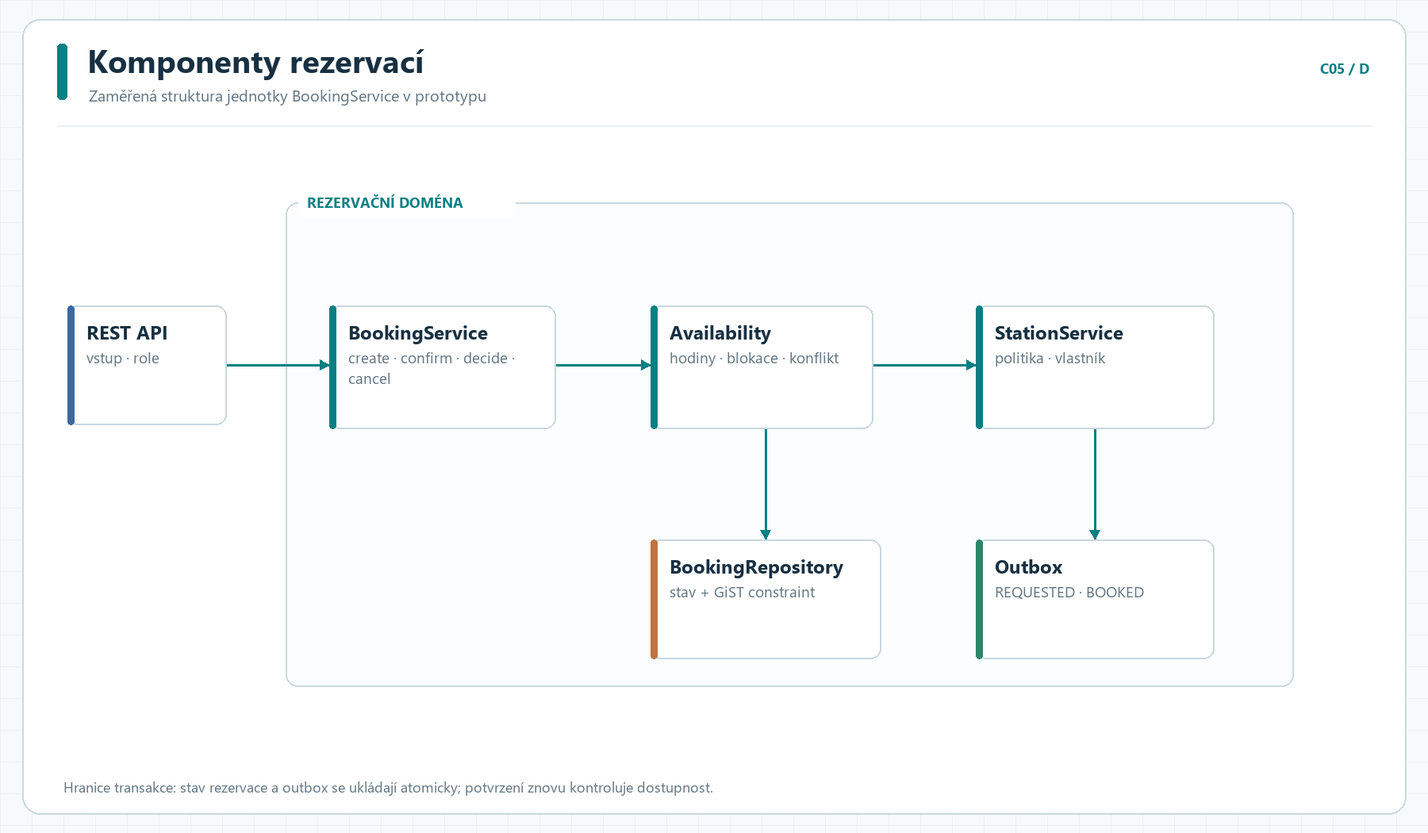
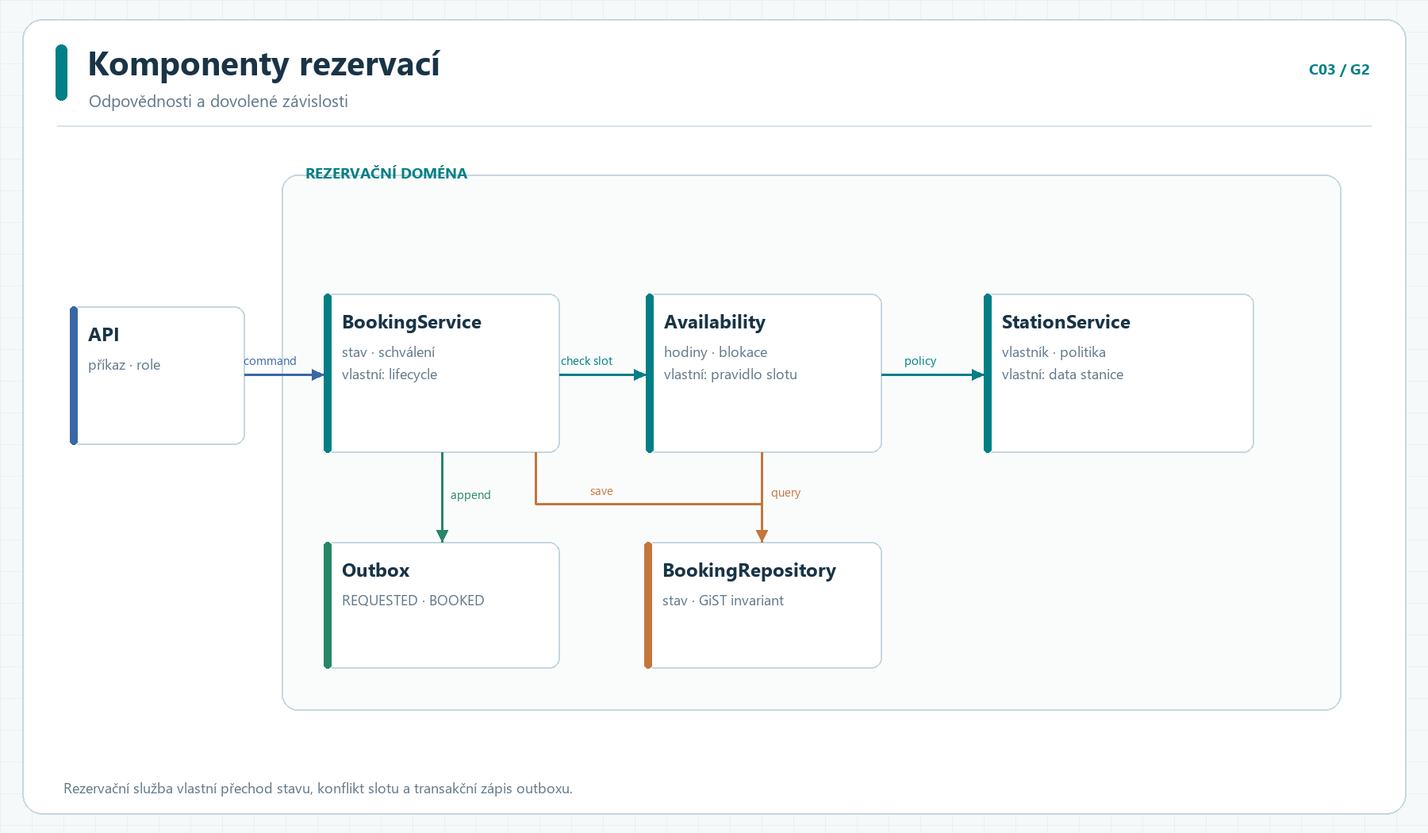
Presentation 2

diff --git a/zadani/03_architektura_a_rozhodnuti.md b/zadani/03_architektura_a_rozhodnuti.md
@@ -2,24 +2,60 @@
 
 ## Zvolený scénář a AS-IS
 
-Řidič žádá o nabíjení na soukromé stanici; vlastník rozhoduje před začátkem termínu. [AS-IS diagram](diagramy/00_as_is.png) zachycuje současnou realizaci, nikoli plán: web volá `ApiController`, ten `BookingService.create/confirm/decide`; služba kontroluje stanici, v transakci mění rezervaci v PostgreSQL a zapisuje outbox. `NotificationService` a `BillingPreview` zpracují událost. Před V22 chyběl krok rozhodnutí vlastníka a rezervace přecházela rovnou do `CONFIRMED`.
+**Scénář:** vlastník schválí žádost řidiče o soukromou stanici podle [C02](02_specifikace_operaci.md), BR-04/05/06, pracovní baseline v0.2/V22. [AS-IS diagram](diagramy/00_as_is.png) ukazuje nynější kód. Před V22 rezervace přecházela rovnou do `CONFIRMED`.
 
-| Driver | Architektonický důsledek |
+| Krok a alternativa | Skutečná realizace a důkaz |
 |---|---|
-| Správnost souběhu | jediný vlastník přechodu do `CONFIRMED`; atomická kontrola slotu |
-| Soukromí a role | vlastník rozhoduje jen o své stanici; přístupový pokyn až po potvrzení |
-| Auditovatelnost | stav, aktér, čas a outbox událost v jedné transakci |
-| Velký katalog | prostorové čtení mapy z PostGIS repliky; Redis pro clustery |
-| Vývoj produktu | hranice domén umožňují pozdější samostatné nasazení |
+| přijmout rozhodnutí a aktéra | `ApiController.decideBooking()` předá `approve` a demo identitu do `BookingService.decide()` |
+| načíst a uzamknout žádost | `BookingService.decide()` zamkne rozvrh stanice a řádek `reservation.bookings FOR UPDATE` |
+| ověřit vlastníka a stav | stejná metoda odmítne cizího aktéra 403 a jiný než `PENDING_APPROVAL` stav 409 |
+| znovu ověřit slot | `StationService.get()` a `BookingService.availability()` ověří stanici, hodiny, blokace a kolizi |
+| změnit stav a vydat událost | `BookingService.decide()` uloží `CONFIRMED` a `BOOKED` v rezervační transakci; `NotificationService`/`BillingPreview` zpracují outbox později |
+| kolize při schválení | dostupnost nebo GiST omezení vrátí 409; žádost zůstane čekající; [ověření souběhu](dukazy/overeni_paralelniho_schvaleni.txt) dalo 200/409 |
+
+Stav vlastní tabulka `reservation.bookings`; jediný Java zapisovatel stavu je `BookingService`. Pravidlo nepřekryvu kontroluje aplikace před zápisem a PostgreSQL constraint `no_overlapping_confirmed_bookings` při zápisu. Závislosti scénáře jsou katalogová data stanice, rezervační PostgreSQL a zpracování outboxu; externí platba a OCPP nejsou zapojené.
+
+## Drivery a odpovědnosti
+
+| Driver / zdroj | Proč mění návrh | Otázka pro architekturu |
+|---|---|---|
+| BR-04, paralelní schválení | dva souběžné pokusy mohou oba předběžně vidět volno | kdo atomicky rozhodne o `CONFIRMED`? |
+| BR-05 a stav `PENDING_APPROVAL` | rozhodnutí přijde po skončení původního requestu | kdo vlastní trvalý stav a přechod? |
+| BR-06 a outbox | selhání oznámení nesmí vytvořit nebo zrušit rezervaci | kde končí transakce a kdo doručuje událost? |
+| rozsah mapy z C01 | velký prostorový katalog zatěžuje čtení jinak než rezervace | které čtení lze oddělit od zápisu slotu? |
+| soukromí a role z C01 | přístupový pokyn patří jen potvrzenému řidiči | kdo kontroluje oprávnění a zveřejnění údajů? |
+
+| Odpovědnost | Hlavní vlastník v cíli | Seskupení / oddělení |
+|---|---|---|
+| identita aktéra a role | Profily | oddělit od stavu rezervace |
+| údaje stanice, hodiny, politika | Katalog | oddělit od alokace slotu |
+| rozhodnutí o slotu, lifecycle a schválení | Rezervace | držet spolu; jediný vlastník BR-04/05 |
+| transakční zápis stavu a outboxu | Rezervace | stejná transakce jako rozhodnutí |
+| zobrazení plateb a provize | Platby | oddělit; zpracovat pouze `BOOKED` |
+| doručení oznámení | Notifikace | oddělit kvůli selhání doručení |
+
+**Rozhodovací otázka:** jak oddělit katalog, platby a oznámení pro různé zatížení a selhání, aniž by se rozhodnutí o potvrzení a nepřekryvu rozdělilo mezi služby?
 
 ## Varianty a ADR-01
 
-| Varianta | Přínos | Negativní důsledek |
+| Kritérium z driverů | A · modulární aplikace | B · doménové mikroservisy |
 |---|---|---|
-| A · modulární aplikace | jednoduchý prototyp, jedna transakční hranice | služby nelze škálovat a vydávat samostatně |
-| B · doménové mikroservisy | oddělené týmy, nasazení a zátěž katalogu/rezervací | složitější provoz, verzování kontraktů a asynchronní konzistence |
+| BR-04: nepřekryv | jedna rezervační transakce a DB constraint | stejná záruka uvnitř služby Rezervace; jiné služby nesmějí zapisovat slot |
+| schválení po requestu | stav trvá v jedné DB | stav trvá v DB Rezervací; katalog dodá jen politiku stanice |
+| výpadek oznámení | lokální outbox a pozdější doručení | outbox → broker → samostatná služba Notifikace; potřebná idempotence |
+| velký katalog | jedna aplikace sdílí kapacitu s rezervacemi | Katalog a mapu lze škálovat samostatně |
+| provoz a změny | jednodušší nasazení a kontrakty | více procesů, verzování událostí a asynchronní konzistence |
 
-**Rozhodnutí:** cílová architektura je **B**; funkční prototyp zůstává **A**. Rezervační služba je jediným vlastníkem stavu rezervace a přidělení slotu. Události do dalších domén odcházejí až po transakčním zápisu outboxu. Rozhodnutí přehodnotit, pokud provozní náklady samostatných služeb převýší přínos odděleného škálování. Cílový návrh není vydáván za implementovaný stav.
+**Průchod stejného scénáře:**
+
+| Krok | A · prototyp | B · cíl |
+|---|---|---|
+| řidič potvrdí návrh | `BookingService` uloží `PENDING_APPROVAL` | Rezervace uloží stejný stav do svého schématu |
+| request skončí, vlastník přijde později | stav zůstává v PostgreSQL | stav zůstává v DB Rezervací; událost je dostupná Notifikacím |
+| vlastník schválí | `BookingService` ověří slot a uloží `CONFIRMED` | Rezervace provede totéž jako jediný vlastník slotu |
+| druhé souběžné schválení | GiST odmítne kolizi 409 | stejný DB invariant; broker nemá právo rozhodnout o slotu |
+
+**ADR-01 — vlastnictví rezervace.** Kontext: katalog, oznámení a rezervace mají odlišnou zátěž a režim selhání; BR-04 musí být atomické. Rozhodnutí: **B** je cílová architektura, **A** zůstává funkční prototyp. Rezervační služba jediná vlastní lifecycle, schválení a přidělení slotu. Outbox vzniká v téže transakci; další domény se aktualizují asynchronně. Přijaté negativní důsledky: více procesů a kontraktů, zpoždění projekcí, nutná idempotence. Rozhodnutí otevřít znovu, pokud samostatné škálování nepřinese dostatečný přínos proti provozním nákladům.
 
 ## Cílové hranice
 
@@ -34,6 +70,16 @@
 
 Služby vlastní svá schémata a DB role; mezi doménami nejsou cizí klíče ani doménové JOINy. Vazby používají UUID a snapshot ceny/místa v rezervaci. Jeden PostgreSQL primary zajišťuje zápisy, PostGIS replika čtení mapy; Redis drží úrovně clusterů. Kafka je cílový broker, v prototypu je tok událostí simulován lokálním outboxem.
 
+| Přechod ze statechartu C02 | Vlastník rozhodnutí | Kdo jen žádá |
+|---|---|---|
+| `DRAFT → PENDING_APPROVAL` | Rezervace | řidič, katalog dodá politiku |
+| `DRAFT → CONFIRMED` | Rezervace | řidič |
+| `PENDING_APPROVAL → CONFIRMED/REJECTED` | Rezervace | vlastník stanice |
+| `PENDING_APPROVAL → EXPIRED` | Rezervace | časový proces |
+| `CONFIRMED → CANCELLED` | Rezervace | řidič, vlastník nebo správce |
+
+**Runtime mapping:** [prototyp](diagramy/13_runtime_prototyp.png) má jeden Spring Boot proces s `ApiController`, `BookingService`, `StationService`, `NotificationService` a `BillingPreview`; zapisuje do PostgreSQL, mapu čte z PostGIS repliky a clustery ukládá do Redis. [Cílové nasazení](diagramy/02_nasazeni.png) rozděluje stejné odpovědnosti do samostatných služeb za API gateway.
+
 ## Konzistentní pohledy
 
 | Pohled | Diagram | Význam |
@@ -41,9 +87,30 @@ Služby vlastní svá schémata a DB role; mezi doménami nejsou cizí klíče a
 | Kontext | [11 · kontext](diagramy/11_kontext.png) | aktéři a externí systémy |
 | Struktura AS-IS | [00 · prototyp](diagramy/00_as_is.png) | konkrétní cesta v kódu |
 | Struktura TO-BE | [01 · mikroservisy](diagramy/01_architektura.png) | hranice a vlastnictví dat |
-| Nasazení | [02 · cílové nasazení](diagramy/02_nasazeni.png) | logické uzly bez provozních detailů |
-| Statika jednotky | [06 · komponenty](diagramy/06_komponenty.png) | `BookingService` a závislosti |
+| Nasazení AS-IS | [13 · runtime prototypu](diagramy/13_runtime_prototyp.png) | skutečná hranice procesu a datových služeb |
+| Nasazení TO-BE | [02 · cílové nasazení](diagramy/02_nasazeni.png) | plánované samostatné procesy |
+| Statika jednotky | [06 · komponenty](diagramy/06_komponenty.png) | vlastníci odpovědností a závislosti |
 | Dynamika | [07 · sekvence](diagramy/07_sekvence.png) | žádost a schválení |
-| Doména | [10 · třídy](diagramy/10_domena.png) | entity a reference |
+| Doména | [10 · doménové třídy](diagramy/10_domena.png) | entity a reference bez implementačních prvků |
+| Návrh | [12 · návrhové třídy](diagramy/12_navrhove_tridy.png) | metody a rozhraní odpovídající sekvenci |
 
-**Pravidlo AR-01:** žádná cesta nesmí potvrdit překrývající se slot mimo rezervační transakci. V prototypu jej vynucují zámek stanice a GiST exclusion constraint; [paralelní ověření](dukazy/overeni_paralelniho_schvaleni.txt) dalo 200/409 a právě jeden `CONFIRMED`. **AR-02:** `REQUESTED` a `REJECTED` nesmějí vytvořit platbu; ověřeno nezávislým dotazem v [C05](05_detailni_navrh_a_testy.md).
+## Konzistence návrhu
+
+| Vazba | Architektonická vazba |
+|---|---|
+| C02 ↔ vlastník přechodu | BR-04/05/06 má jediného vlastníka v Rezervacích; Katalog jen poskytuje politiku |
+| komponenty ↔ sekvence ↔ návrhové třídy | API, Rezervace, Katalog, DB a outbox mají stejný směr interakcí; konfliktní větev vrací 409 |
+| statechart ↔ sekvence | `PENDING_APPROVAL` vzniká bez obsazení slotu; `CONFIRMED` po opakované kontrole |
+| komponenty ↔ runtime | logické role jsou v prototypu moduly jednoho procesu; cílové služby jsou návrh |
+| ADR ↔ kód | invariant a outbox v rezervační transakci jsou realizované; samostatné služby zatím ne |
+
+| Oblast | AS-IS → přijatý návrh | Akce a stav |
+|---|---|---|
+| schvalování vlastníkem | chybělo před V22 → Rezervace rozhoduje o žádosti | **CHANGE:** implementováno ve V22 a `BookingService.decide()` |
+| nepřekryv slotu | zámek a GiST constraint → stejný autoritativní invariant | **KEEP:** zachováno |
+| událost po změně stavu | transakční outbox → stejný princip před brokerem | **KEEP:** zachováno |
+| vlastnictví zápisů | očekává se pouze Rezervace → nutná kontrola všech zápisů | **VERIFY:** statická kontrola níže |
+
+**Pravidlo AR-01:** stav rezervace mění v aplikačním kódu jen rezervační doména; žádná cesta nesmí potvrdit překrývající se slot mimo rezervační transakci. Opakovatelná statická kontrola `rg -n 'INSERT INTO reservation\.bookings|UPDATE reservation\.bookings|DELETE FROM reservation\.bookings' src/main/java` našla zápisy pouze v `booking/BookingService.java`. [Paralelní ověření](dukazy/overeni_paralelniho_schvaleni.txt) dalo 200/409 a právě jeden `CONFIRMED` v DB. **AR-02:** `REQUESTED` a `REJECTED` nesmějí vytvořit platbu; DB oracle je v [C05](05_detailni_navrh_a_testy.md).
+
+Prototyp realizuje rezervační invariant a transakční outbox. Samostatné mikroservisy představují cílový stav.

diff --git a/zadani/01_zamer_a_pozadavky.md b/zadani/01_zamer_a_pozadavky.md
@@ -1,5 +1,7 @@
 # C01 · Záměr a požadavky
 
+**Tým:** SW-DEV-AJVZMPIA — Viacheslav Zlobin, Maksym Panfilov, Aleksej Južaninov, Ivan Akulovich. **Repozitář:** [EC-reservationSystem](https://github.com/alexejjuzaninov/EC-reservationSystem).
+
 ## Doména a hranice
 
 EC provozuje vlastní nabíjecí stanice a zprostředkovává nabíjení na stanicích firem a soukromých vlastníků. Řidič vyhledá místo v Česku nebo USA, zvolí čas a podá rezervaci. Vlastník rozhoduje o žádostech tam, kde vyžaduje předchozí souhlas. Z potvrzené partnerské rezervace připadá EC provize **12 %**.
@@ -14,6 +16,22 @@ Prototyp obsahuje mapu s přibližně 141 tisíci vzorovými lokalitami, role, s
 | Operátor EC | sledovat provoz vlastních stanic |
 | Správce | moderovat publikaci stanic a kontrolovat síť |
 
+## Project Frame
+
+| Položka | Rozhodnutí pro EC Reservation |
+|---|---|
+| Resource | Nabíjecí stanice s polohou, konektorem, výkonem, cenou, vlastníkem a rozvrhem. |
+| Reservation a User | Rezervace má ID, řidiče, stanici, časový interval, stav a cenu; uživatel má roli určující oprávnění. |
+| Základní operace | Zkontrolovat dostupnost, vytvořit návrh, potvrdit nebo požádat o schválení, rozhodnout o žádosti, zrušit rezervaci. Kontrakty jsou v [C02](02_specifikace_operaci.md). |
+| Trvalý stav | Uživatelé; stanice a rozvrhy; rezervace; události outboxu a simulované platby. |
+| Stavy rezervace | `DRAFT` → `CONFIRMED` → `CANCELLED`; u vybraných stanic `DRAFT` → `PENDING_APPROVAL` → `CONFIRMED`, `REJECTED` nebo `EXPIRED`. |
+| Měnící operace | `confirm(id)` znovu ověří termín. Podle politiky stanice uloží `CONFIRMED`, nebo `PENDING_APPROVAL`; pouze první stav obsadí slot. |
+| Společné pravidlo | Dvě potvrzené rezervace téže stanice se nesmějí časově překrývat. |
+| Vlastní pravidlo domény | U stanice vyžadující schválení smí žádost potvrdit jen její vlastník; EC získává 12 % z potvrzené partnerské rezervace. |
+| Hranice systému | Platební poskytovatel a telemetrie stanice jsou externí oblasti; prototyp místo nich používá jasně označené simulace. Oznámení vznikají z událostí outboxu. |
+| Předpoklad | Vlastník udržuje otevírací dobu a blokace aktuální; prototyp neověřuje fyzický stav konektoru v okamžiku příjezdu. |
+| Neznámá v C01 | Co se stane, pokud vlastník nerozhodne před začátkem termínu? V C02 rozhodnuto: žádost přejde do `EXPIRED`, bez platby. |
+
 ## Přijatá pravidla
 
 | ID | Pravidlo |
@@ -25,13 +43,16 @@ Prototyp obsahuje mapu s přibližně 141 tisíci vzorovými lokalitami, role, s
 | BR-05 | U stanice se schvalováním rozhoduje jen její vlastník před začátkem termínu. |
 | BR-06 | Platební simulace vzniká až po potvrzení; čekání a zamítnutí ji nevytváří. |
 
-## Tlak na návrh
+## Vybraný budoucí tlak a technický spike
 
-| Typ | Konkrétní důsledek |
-|---|---|
-| Q · kvalita | rozhodnutí o slotu musí být atomické i při souběhu řidičů |
-| C · kapacita | mapu je nutné agregovat prostorově a kešovat clustery |
-| R · spolehlivost | čtení mapy používá repliku; konečné rozhodnutí používá primární DB |
-| L · omezení | platby a telemetrie jsou označené simulace, nikoli externí transakce |
+**R · vyšší důsledky chyby:** při placeném nabíjení by dvojí rezervace znamenala cestu k obsazené stanici, reklamaci a ztrátu důvěry. Proto musí BR-04 platit i při souběžných rozhodnutích, nejen při kontrole ve webu.
 
-**Průchozí kostra:** výběr stanice → dostupnost → návrh → potvrzení nebo žádost → rozhodnutí vlastníka → oznámení. Při technickém spike měla žádost stav `PENDING_APPROVAL` bez platby; po schválení přešla do `CONFIRMED` a druhé potvrzení stejného slotu skončilo konfliktem 409. Podrobné oracly jsou v [C05](05_detailni_navrh_a_testy.md).
+**Otázka spike:** mohou dvě současná schválení překrývajících se žádostí vytvořit dvě `CONFIRMED` rezervace? Dvě čekající žádosti byly rozhodnuty souběžně přes HTTP; výsledky byly **200/409** a nezávislý dotaz do databáze našel právě **jednu** potvrzenou rezervaci. [Záznam](dukazy/overeni_paralelniho_schvaleni.txt) a [opakovatelný scénář](../verification/overeni_paralelniho_schvaleni.py) dokládají provedení. Rozhodnutí: konečný přechod chrání transakce a PostgreSQL GiST exclusion constraint; pouhé předběžné čtení dostupnosti nestačí. Jde o ověřenou dvojici, nikoli o zátěžový test.
+
+## Technické rozhodnutí a průchozí kostra
+
+**Stack:** Java 21, Spring Boot, PostgreSQL/PostGIS, Flyway a Redis. Spring Boot pokrývá HTTP vrstvu a transakční doménovou logiku; PostgreSQL drží závazný stav a vynucuje nepřekryv. Cena volby je složitější lokální běh než u aplikace bez databáze. Cílové mikroservisy jsou popsány v [C03](03_architektura_a_rozhodnuti.md); nynější prototyp je modulární aplikace.
+
+**Walking skeleton:** `POST /api/bookings` → validace vstupu → `BookingService.create` → zápis `DRAFT` do PostgreSQL → HTTP 201 s ID → kontrola uloženého stavu. Tato cesta je implementovaná; [ověření rezervací](dukazy/overeni_rezervaci.txt) kontroluje HTTP odpověď i databázi. Rozšíření o schválení v C02 navazuje na stejný základ.
+
+**Řízená změna:** schvalování vybraných rezervací je implementované ve V22; [C08](08_rizena_zmena_a_predani.md) popisuje rozhodnutí, dopady a testovací procedury.

diff --git a/zadani/08_rizena_zmena_a_predani.md b/zadani/08_rizena_zmena_a_predani.md
@@ -5,11 +5,10 @@
 | Položka | Rozhodnutí |
 |---|---|
 | Podnět | Vlastník soukromé nebo firemní stanice potřebuje rozhodnout, kdo u něj může nabíjet. |
-| Výchozí baseline | Git `6fa569b`, Java 21, schéma V21: `POST /api/bookings` vedl přímo do `CONFIRMED`. |
+| Výchozí baseline | Git `6fa569b`, Java 21, schéma V21: `POST /api/bookings` vytvořil `DRAFT` a `POST /api/bookings/{id}/confirm` jej potvrzoval bez rozhodnutí vlastníka. |
 | Přijaté pravidlo | BR-05 v [C01](01_zamer_a_pozadavky.md): u vybraných stanic rozhoduje vlastník před začátkem. |
 | Po změně | pracovní verze v0.2 / V22: `DRAFT` → `PENDING_APPROVAL` → `CONFIRMED`, `REJECTED` nebo `EXPIRED`. |
 | Disposition | **ACCEPT.** Zadavatel změnu výslovně schválil; implementace a lokální testy jsou dokončeny. |
-| Otevřený formální důkaz | jméno kritického týmového recenzenta a jeho záznam nejsou doloženy; nesupluje je souhlas zadavatele. |
 
 **Varianty:** okamžitě potvrzovat vše (menší změna, nesplňuje potřebu); rozhodování v rezervační doméně (atomický stav a ochrana slotu); oddělená schvalovací služba (samostatné nasazení, složitější koordinace). Pro prototyp je zvolena druhá varianta. V cílové architektuře zůstává rozhodnutí v rezervační mikroservise, nikoli v nové službě schvalování.
 
@@ -27,10 +26,10 @@
 
 ## Testovací procedury
 
-**TC-01 · Schválení a konflikt — PASS.** Základ: BR-04/05, baseline v0.2/V22. Data: stanice Ilyi `20000000-0000-0000-0000-000000000002`, Anna a Mark, interval **12. 1. 2027 12:00–13:00 UTC**. 1. Anna vytvoří návrh: očekává se 201 + DB `DRAFT`; pozorováno 201 + `DRAFT`. 2. Potvrdí: očekává se `PENDING_APPROVAL` bez platby; pozorováno. 3. Mark zkusí rozhodnout: očekává se 403 a stav beze změny; pozorováno. 4. Ilya schválí: očekává se `CONFIRMED` + `BOOKED`; pozorováno. 5. Mark potvrdí stejný slot: očekává se 409 a nejvýše jeden potvrzený slot; pozorováno. Oracle: přímé čtení `reservation.bookings`, `reservation.outbox` a `billing.simulated_charges`. [Záznam](dukazy/overeni_rezervaci.txt).
+**TC-01 · Schválení a konflikt — PASS.** Základ: BR-04/05, baseline v0.2/V22. Data: stanice Ilyi `20000000-0000-0000-0000-000000000002`, Anna a Mark; referenční běh použil interval **12. 1. 2027 12:00–13:00 UTC**, skript při opakování najde volný budoucí termín. 1. Anna vytvoří návrh: očekává se 201 + DB `DRAFT`; pozorováno 201 + `DRAFT`. 2. Potvrdí: očekává se `PENDING_APPROVAL` bez platby; pozorováno. 3. Mark zkusí rozhodnout: očekává se 403 a stav beze změny; pozorováno. 4. Ilya schválí: očekává se `CONFIRMED` + `BOOKED`; pozorováno. 5. Mark potvrdí stejný slot: očekává se 409 a nejvýše jeden potvrzený slot; pozorováno. Oracle: přímé čtení `reservation.bookings`, `reservation.outbox` a `billing.simulated_charges`. [Záznam](dukazy/overeni_rezervaci.txt).
 
 **TC-02 · Zrušení a zamítnutí — PASS.** Základ: BR-04/05/06, stejné účty, stanice a interval po TC-01. 1. Anna zruší rezervaci: očekává se `CANCELLED`, uvolnění slotu a storno simulované platby; pozorováno. 2. Mark potvrdí nový návrh: očekává se `PENDING_APPROVAL`; pozorováno. 3. Ilya zamítne: očekává se `REJECTED` bez Markovy platby; pozorováno. Oracle: DB stav rezervací a plateb nezávisle na odpovědi API. [Záznam](dukazy/overeni_rezervaci.txt).
 
 ## Předání
 
-Pracovní verze obsahuje V22 a uvedené testy; pro vydanou baseline je třeba po týmové kontrole vytvořit commit/tag a znovu spustit testy proti této verzi. Před produkčním použitím zbývá skutečná identita, platby, telemetrie a širší zátěžové ověření. Externí hodnocení C06 týmu nebylo přiděleno; [záznam](06_interni_hodnoceni.md) to uvádí bez fiktivních nálezů.
+Verze V22 obsahuje schvalování rezervací, záznam rozhodnutí a navazující události. [TC-01/02](dukazy/overeni_rezervaci.txt) ověřují schválení, konflikt, zrušení a zamítnutí v databázi. Pro komerční provoz zbývá skutečná identita, platby, telemetrie a zátěžové ověření.

diff --git a/zadani/07_rizika_a_stav.md b/zadani/07_rizika_a_stav.md
@@ -1,6 +1,6 @@
 # C07 · Rizika a stav projektu
 
-**Stav k 8. 11. 2026: ŽLUTÁ.** Klíčové scénáře rezervace, schválení a mapy fungují v prototypu. Otevřené jsou týmové potvrzení nové baseline, rozsáhlejší zátěžový test a skutečné externí integrace. [Šest snímků stavu](stav_projektu.pptx) používá stejný závěr.
+**Stav k 8. 11. 2026: ŽLUTÁ.** Klíčové scénáře rezervace, schválení a mapy fungují v prototypu. Rozsáhlejší zátěžový test a skutečné externí integrace jsou mimo ověřený rozsah. [Šest snímků stavu](stav_projektu.pptx) používá stejný závěr.
 
 Hodnocení odpovídá zadání: pravděpodobnost **L** a dopad **I** mají škálu 1 nízká, 2 střední, 3 vysoká. Priorita je `L × I`; 1–2 nízká, 3–4 střední, 6–9 vysoká. Reziduum je odhad po uvedeném opatření, nikoli tvrzení o nulovém riziku.
 
@@ -8,8 +8,8 @@ Hodnocení odpovídá zadání: pravděpodobnost **L** a dopad **I** mají šká
 |---|---|---:|---|---:|
 | R1 · technická kvalita | souběžná rozhodnutí → dvojí potvrzení slotu → ztráta důvěry | 2×3=6 | zámek + GiST; sledovat konflikty a opakovat paralelní test | 1×3=3 |
 | R2 · provoz | výpadek repliky/cache → pomalá mapa → horší vyhledávání | 2×2=4 | fallback na primary, cache není zdroj pravdy; sledovat p95 | 2×2=4 |
-| R3 · projekt | pozdní sloučení podkladů → nesoulad verze dokumentu a kódu → slabá obhajoba | 2×2=4 | společná baseline a kontrola odkazů před odevzdáním | 1×2=2 |
+| R3 · projekt | změna kontraktu bez koordinace → nekompatibilní klient a API → selhání rezervace | 2×2=4 | verzovat kontrakt a ověřit scénáře klienta s API | 1×2=2 |
 | R4 · bezpečnost | demo role bez reálné identity → neoprávněná změna v produkci → zásah do rezervací | 2×3=6 | před komerčním provozem OIDC/JWT a autorizační testy | 1×3=3 |
 | R5 · externí závislost | chybí platební/OCPP partner → nelze ověřit reálný provoz → omezená demonstrace | 3×2=6 | jasně označené simulace, kontrakty pro pozdější integraci | 2×2=4 |
 
-**Monitoring:** po změně rezervace sledovat počet konfliktů 409, nevyřízené události, p95 mapy a dostupnosti. V prototypu prošla paralelní dvojice, nikoli celá zátěžová kampaň. C06 nebylo přiděleno; chybějící týmové schválení baseline zůstává otevřeným úkolem, nikoli uzavřeným rizikem.
+**Monitoring:** počet konfliktů 409, nevyřízené události, p95 mapy a dostupnosti. Paralelní scénář ověřil dvojici požadavků; širší zátěžový profil není změřený.

diff --git a/zadani/README.md b/zadani/README.md
@@ -7,15 +7,15 @@
 
 | Část | Dokument | Obsah |
 |---|---|---|
-| C01 | [Záměr a požadavky](01_zamer_a_pozadavky.md) | rozsah, aktéři, pravidla, kvalita |
+| C01 | [Záměr a požadavky](01_zamer_a_pozadavky.md) | Project Frame, pravidla, budoucí tlak, spike a walking skeleton |
 | C02 | [Specifikace](02_specifikace_operaci.md) | operace, stavy, negativní případy |
 | C03 | [Architektura](03_architektura_a_rozhodnuti.md) | AS-IS, cílové mikroservisy, ADR a pohledy |
 | C04 | [Kvalita](04_kvalita_a_mereni.md) | kritéria, měření, rozhodnutí |
 | C05 | [Detailní návrh](05_detailni_navrh_a_testy.md) | rezervační jednotka, kontrakty, ověření |
-| C06 | [Hodnocení](06_interni_hodnoceni.md) | záznam o nepřidělení cizího projektu |
+| C06 | [Externí hodnocení](06_externi_hodnoceni.md) | projekt jiné skupiny nebyl přidělen |
 | C07 | [Rizika a stav](07_rizika_a_stav.md) | registr rizik a stav projektu |
 | C08 | [Řízená změna](08_rizena_zmena_a_predani.md) | schvalování vlastníkem, dopady, testy |
 
-[Kontrolní matice](00_kontrolni_matrice.md) uvádí požadované výstupy a otevřené důkazy. [Diagramy](diagramy/) obsahují kontext, skutečnou strukturu prototypu, cílovou architekturu, nasazení, tři use case pohledy, komponenty, sekvenci, stavy, aktivitu a doménový model. [Obrazovky](obrazovky/) ukazují řidiče, vlastníka a správce. [Prezentace stavu](stav_projektu.pptx) má šest snímků.
+[Diagramy](diagramy/) obsahují kontext, strukturu prototypu, cílovou architekturu, skutečné i cílové nasazení, tři use case pohledy, komponenty, sekvenci, stavy, aktivitu, doménový a návrhový model. [Obrazovky](obrazovky/) ukazují řidiče, vlastníka a správce. [Prezentace stavu](stav_projektu.pptx) má šest snímků.
 
-**Rozlišení pohledů:** implementovaný prototyp je modulární Spring Boot aplikace s PostgreSQL, PostGIS replikou a Redis. Mikroservisy v architektonických diagramech představují cílový návrh, nikoli tvrzení o současném nasazení. Ověřené chování a jeho limity jsou popsány u jednotlivých výsledků.
+**Implementace:** modulární Spring Boot aplikace s PostgreSQL, PostGIS replikou a Redis. **Cílová architektura:** doménové mikroservisy s odděleným vlastnictvím dat a asynchronními událostmi.

diff --git a/zadani/05_detailni_navrh_a_testy.md b/zadani/05_detailni_navrh_a_testy.md
@@ -15,6 +15,8 @@
 
 `create(actor, stationId, startAt, endAt)` vrací `DRAFT` jen řidiči s platným budoucím intervalem. `confirm(id, actor)` znovu ověří dostupnost: bez politiky schvalování vrací `CONFIRMED`, jinak `PENDING_APPROVAL`. `decide(id, owner, approve)` vyžaduje vlastníka a čekající žádost; zamítnutí vrací `REJECTED`, schválení po nové kontrole vrací `CONFIRMED`. `cancel(id, actor)` před začátkem uvolní termín a je idempotentní pro již zrušený stav. Chybný vstup → 400, cizí aktér → 403, neznámé ID → 404, neplatný přechod nebo kolize → 409.
 
+**Algoritmus kolize:** pro stejnou stanici blokuje pouze `CONFIRMED`; intervaly se překrývají právě když `existing.start < requested.end` a `requested.start < existing.end`. Navazující intervaly se tedy mohou rezervovat. Předběžný výsledek dostupnosti není závazný; při zápisu rozhoduje DB constraint nad polootevřeným intervalem `[start,end)`.
+
 **Schválení v transakci:**
 
 1. Ověř vlastníka, zamkni rozvrh stanice a žádost.
@@ -38,5 +40,7 @@
 | T9 · expirace | `EXPIRED` + událost; bez platby | PASS |
 
 Provedené průchody: [rezervace](dukazy/overeni_rezervaci.txt), [paralelní rozhodnutí](dukazy/overeni_paralelniho_schvaleni.txt), [souběh a expirace](dukazy/overeni_soubehu_a_expirace.txt), [politika stanice](dukazy/overeni_politiky_stanice.txt). Oracle je nezávislý SQL dotaz nad stavem rezervace, outboxu a plateb, nikoli porovnání se současným výstupem metody. Testy používají izolované vzorové termíny; jednorázově ověřená paralelní dvojice není zátěžový test.
+
+**Úroveň ověření:** T1–T9 jsou integrační průchody přes HTTP a PostgreSQL. T8 ověřuje databázový invariant při dvou souběžných spojeních.
 
 Reprodukce: spustit aplikaci a `python verification/overeni_rezervaci.py`; další scénáře jsou ve složce `verification/`. Testovací skripty vytvářejí označené vzorové záznamy.

diff --git a/zadani/02_specifikace_operaci.md b/zadani/02_specifikace_operaci.md
@@ -15,6 +15,8 @@
 
 `DRAFT` a `PENDING_APPROVAL` slot neblokují. Mezi kontrolou dostupnosti a potvrzením se proto může situace změnit; konečný přechod je transakční a chráněný databázovým omezením proti překryvu. Po začátku termínu nevyřízená žádost expiruje. Přístupový pokyn k soukromé stanici se řidiči zpřístupní až v `CONFIRMED`.
 
+**Hranice rozhodnutí:** přesně 30 a 240 minut je platné trvání; mimo tento rozsah 400. Intervaly `[10:00,11:00)` a `[11:00,12:00)` se nepřekrývají. Překrývající se `DRAFT` a `PENDING_APPROVAL` jsou povolené, ale právě jeden souběžný přechod do `CONFIRMED` může uspět. Cizí vlastník dostane při rozhodnutí 403; již rozhodnutá nebo prošlá žádost se znovu neschválí. [Tři use case pohledy](diagramy/) rozlišují řidiče, vlastníka a správce.
+
 ## Ověření specifikace
 
 | Scénář | Očekávání | Pozorování |
@@ -26,4 +28,4 @@
 | zrušení | `CANCELLED`, slot znovu dostupný | splněno |
 | souběžné schválení | právě jeden `CONFIRMED` | splněno pro ověřenou dvojici |
 
-Výsledky a databázový oracle jsou shrnuty v [C05](05_detailni_navrh_a_testy.md) a zaznamenány v [důkazech](dukazy/). Formalizované týmové schválení verze v0.2 zatím není doloženo.
+Výsledky a databázový oracle jsou shrnuty v [C05](05_detailni_navrh_a_testy.md) a zaznamenány v [důkazech](dukazy/).

diff --git a/README.md b/README.md
@@ -16,4 +16,4 @@ Prototyp používá Spring Boot, PostgreSQL/PostGIS, čtecí repliku, Redis a Fl
 
 **Lokální spuštění:** `docker compose up -d --build`, potom otevřít `http://localhost:18080`. Účet se pro ukázku přepíná v horní liště.
 
-České podklady k předmětu, diagramy a obrazovky jsou v [zadani](zadani/README.md). Cílová mikroservisní architektura je v dokumentaci jasně oddělena od současného prototypu.
+České podklady k předmětu, diagramy a obrazovky jsou v [zadani](zadani/README.md).

diff --git a/zadani/06_externi_hodnoceni.md b/zadani/06_externi_hodnoceni.md
@@ -1,0 +1,3 @@
+# C06 · Externí hodnocení
+
+Týmu SW-DEV-AJVZMPIA nebyl přidělen projekt jiné skupiny k externímu hodnocení. Ostatních osm týmů se hodnotilo vzájemně. Externí hodnocení proto nebylo provedeno.
